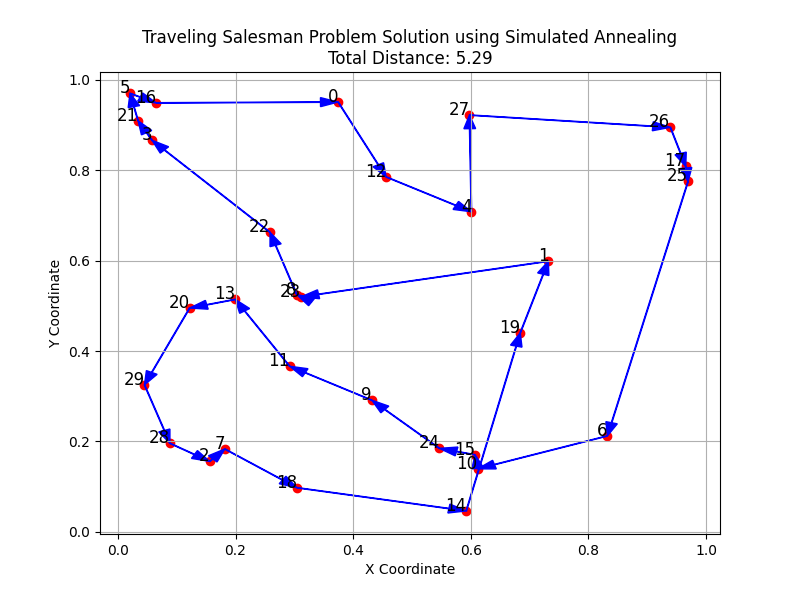
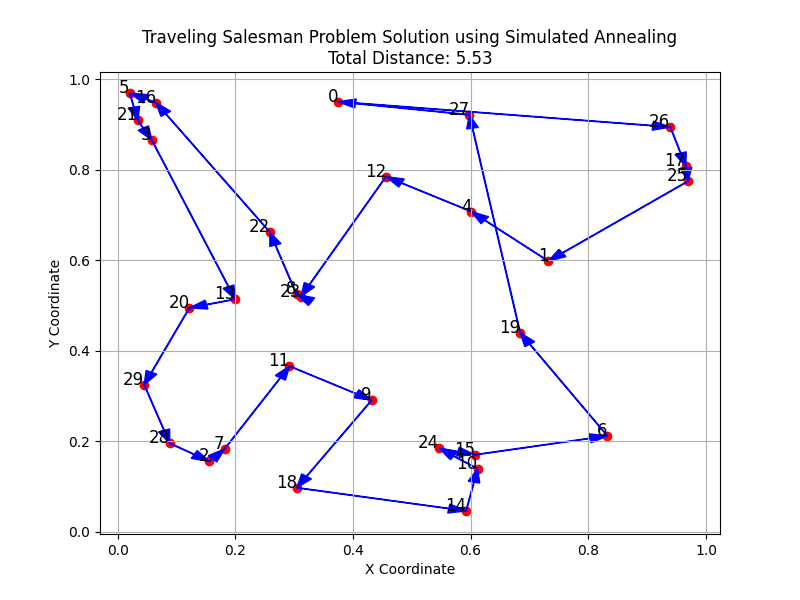
add three method

diff --git a/method/genetic.py b/method/genetic.py
@@ -1,0 +1,135 @@
+"""
+
+Genetic Algorithm for TSP
+
+This module contains functions to solve the Traveling Salesman Problem using Genetic Algorithm.
+
+note that:
+
+- no matter the parents or children, both are tour: List[int], which is a list of city indices
+- tour starts and ends at city 0
+- in each generation, 
+    - we have `pop_size` tours in the population, population = [tour1, tour2, ..., tourN]
+    - firstly, we will select `elite_size` tours with the best fitness value to be the elite 
+        - fitness = 1 / the total distance of the tour, the less dist, the better fitness
+    - then we will ues elite as parents to generate new population, which is the same size as before
+        - for each pair of parents, we will generate two children
+        - we will add these two children to the elite list
+    - finally, we will replace the old population with the new population
+        - we will update the best tour and best distance if we find a better one
+    - repeat the above steps for `generations` times
+
+"""
+
+import numpy as np
+from .utils import calculate_total_distance
+from typing import List, Tuple
+
+
+def initialize_population(
+        pop_size: int, 
+        num_cities: int
+    ) -> List[List[int]]:
+    population = []
+    for _ in range(pop_size):
+        tour = list(np.random.permutation(range(1, num_cities)))
+        population.append(tour)
+    return population
+
+def selection(
+        population: List[List[int]],
+        fitness: List[float]
+    ) -> List[int]:
+    """select a parent based on fitness value of each individual in the population"""
+    total_fitness = sum(fitness)
+    pick = np.random.uniform(0, total_fitness)
+    current = 0
+    for i, f in enumerate(fitness):
+        current += f
+        if current > pick:
+            return population[i]
+
+def crossover(
+        parent1: List[int],
+        parent2: List[int]
+    ) -> Tuple[List[int], List[int]]:
+    """crossover parts of two parents to generate two children"""
+    size = len(parent1)
+    start, end = sorted(np.random.choice(range(size), 2, replace=False))
+    child1 = [-1] * size
+    child2 = [-1] * size
+
+    child1[start:end] = parent1[start:end]
+    child2[start:end] = parent2[start:end]
+
+    fill_child(child1, parent2)
+    fill_child(child2, parent1)
+
+    return child1, child2
+
+def fill_child(
+        child: List[int],
+        parent: List[int],
+    ) -> None:
+    """fill the rest of the child with genes from the other parent"""
+    size = len(child)
+    for i in range(size):
+        if child[i] == -1:
+            for gene in parent:
+                if gene not in child:
+                    child[i] = gene
+                    break
+
+def mutate(
+        tour: List[int],
+        mutation_rate: float
+    ) -> List[int]:
+    """swap two cities with a probability"""
+    for i in range(len(tour) - 1):
+        if np.random.rand() < mutation_rate:
+            j = np.random.randint(0, len(tour) - 2)
+            tour[i], tour[j] = tour[j], tour[i]
+    return tour
+
+def genetic_algorithm(
+        distance_matrix: np.ndarray, 
+        pop_size: int = 100, 
+        elite_size: int = 20, 
+        mutation_rate: float = 0.01, 
+        generations: int = 500
+    ) -> Tuple[List[int], float]:
+    num_cities = distance_matrix.shape[0]
+    population = initialize_population(pop_size, num_cities)
+    best_tour = None
+    best_distance = float('inf')
+
+    for generation in range(generations):
+        fitness = [1 / calculate_total_distance([0, *tour, 0], distance_matrix) for tour in population]
+        new_population = []
+
+        elite_indices = np.argsort(fitness)[-elite_size:]
+        elite = [population[i] for i in elite_indices]
+        new_population.extend(elite)
+
+        # generate new population
+        while len(new_population) < pop_size:
+            parent1 = selection(population, fitness)
+            parent2 = selection(population, fitness)
+            child1, child2 = crossover(parent1, parent2)
+            new_population.append(mutate(child1, mutation_rate))
+            if len(new_population) < pop_size:
+                new_population.append(mutate(child2, mutation_rate))
+
+        population = new_population
+
+        # update best tour
+        for tour in population:
+            tour = [0, *tour, 0]
+            distance = calculate_total_distance(tour, distance_matrix)
+            if distance < best_distance:
+                best_distance = distance
+                best_tour = tour
+
+        print(f"Generation {generation+1}/{generations}, Best Distance: {best_distance}")
+
+    return best_tour, best_distance

diff --git a/method/annealing.py b/method/annealing.py
@@ -1,0 +1,48 @@
+import numpy as np
+from .utils import calculate_total_distance
+from typing import List, Tuple
+
+def simulated_annealing(
+        distance_matrix: np.ndarray, 
+        initial_temp: float = 1000, 
+        cooling_rate: float = 0.995, 
+        max_iter: int = 10000
+    ) -> Tuple[List[int], float]:
+    num_cities = distance_matrix.shape[0]
+    tour = list(np.random.permutation(range(1, num_cities)))
+    
+    best_tour = [0, *tour, 0]
+    current_distance = calculate_total_distance(best_tour, distance_matrix)
+    best_distance = current_distance
+    
+    temperature = initial_temp
+
+    for i in range(max_iter):
+        if temperature <= 0:
+            break
+        
+        # generate a new neighbor solution
+        # just swap two cities
+        new_tour = tour.copy()
+        city1, city2 = np.random.randint(0, len(new_tour), size=2)
+        new_tour[city1], new_tour[city2] = new_tour[city2], new_tour[city1]
+        new_distance = calculate_total_distance([0, *new_tour, 0], distance_matrix)
+        
+        # accept new solution with probability
+        acceptance_probability = np.exp((current_distance - new_distance) / temperature)
+        if new_distance < current_distance or np.random.rand() < acceptance_probability:
+            tour = new_tour
+            current_distance = new_distance
+        
+        # update best solution
+        if current_distance < best_distance:
+            best_tour = [0, *tour, 0]
+            best_distance = current_distance
+        
+        # update temperature
+        temperature *= cooling_rate
+
+        if i % 200 == 0:
+            print(f"Iteration {i+1}/{max_iter}, Best Distance: {best_distance}")
+    
+    return best_tour, best_distance

diff --git a/demo.py b/demo.py
@@ -12,22 +12,33 @@ distance_matrix = cdist(cities, cities, metric='euclidean')
 # 求解
 from method import (
     calculate_total_distance,
-    greedy_tsp, 
-    simulated_annealing
+    simulated_annealing,
+    greedy_algorithm, 
+    genetic_algorithm
 )
 # method = 'Greedy Algorithm'
-# tour = greedy_tsp(distance_matrix)
+# best_tour = greedy_algorithm(distance_matrix)
+# best_distance = calculate_total_distance(best_tour, distance_matrix)
 
-method = 'Simulated Annealing'
-tour = simulated_annealing(
-    distance_matrix, 
-    initial_temp=10, 
-    cooling_rate=0.995, 
-    max_iter=10000
+# method = 'Simulated Annealing'
+# best_tour, best_distance = simulated_annealing(
+#     distance_matrix, 
+#     initial_temp=5, 
+#     cooling_rate=0.995, 
+#     max_iter=10000
+# )
+
+method = 'Genetic Algorithm'
+best_tour, best_distance = genetic_algorithm(
+    distance_matrix,
+    pop_size=200,
+    elite_size=40,
+    mutation_rate=0.01,
+    generations=500
 )
 
-# 可视化
-total_distance = calculate_total_distance(tour, distance_matrix)
 from plot import plot_tsp_solution
-plot_tsp_solution(cities, tour, total_distance, method)
+plot_tsp_solution(cities, best_tour, best_distance, method)
+print(f"Best Tour: {best_tour}")
+print(f"Best Distance: {best_distance}")
 

diff --git a/method/greedy.py b/method/greedy.py
@@ -1,0 +1,15 @@
+import numpy as np
+
+# 贪心算法解决TSP问题
+def greedy_algorithm(distance_matrix: np.ndarray):
+    num_cities = distance_matrix.shape[0]
+    visited = [False] * num_cities
+    tour = [0]
+    visited[0] = True
+    for _ in range(num_cities - 1):
+        last = tour[-1]
+        next_city = np.argmin([distance_matrix[last, j] if not visited[j] else np.inf for j in range(num_cities)])
+        tour.append(next_city)
+        visited[next_city] = True
+    tour.append(0)  # 回到起点
+    return tour

diff --git a/method/utils.py b/method/utils.py
@@ -1,0 +1,7 @@
+import numpy as np
+
+def calculate_total_distance(
+        tour:list, 
+        distance_matrix: np.ndarray
+    ):
+    return sum(distance_matrix[tour[i], tour[i + 1]] for i in range(len(tour) - 1))

diff --git a/method/__init__.py b/method/__init__.py
@@ -1,0 +1,4 @@
+from .utils import calculate_total_distance
+from .annealing import simulated_annealing
+from .greedy import greedy_algorithm
+from .genetic import genetic_algorithm
